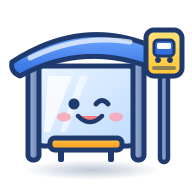
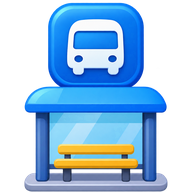
버스: 정류장 그림 핀을 대표님이 만든 그림으로 (본부 요청)
Claude-Session: https://claude.ai/code/session_01PufqCwe3ZhVuQ7GkmK5KTb

diff --git a/requests/bus-1126-정류장-쉼터-그림-핀.md b/requests/bus-1126-정류장-쉼터-그림-핀.md
@@ -2,7 +2,7 @@
 
 ## 지도 정류장 표시를 「버스」 그림 → 「정류장 쉼터」 그림으로
 - 대표님: 지도에 버스 그림이 있으니 버스인지 정류장인지 헷갈림. 동그란 버스 마크 말고 요즘 정류장처럼 재밌게 그려 달라.
-- 그림 준비해 둠: `requests/img/pin_busstop.png` (192px, 투명 배경 · 웃는 유리 쉼터 + 파란 지붕 + 노란 의자 + 노란 정류장 표지판), 원본 `pin_busstop.svg`.
+- 그림: **대표님이 직접 만든 그림** `requests/img/pin_busstop.png` (192px, 투명 배경 · 파란 버스 표지판 + 지붕 쉼터 + 노란 의자, 아래 가운데가 정류장 자리).
   → `assets/icons/pin_busstop.png` 로 옮겨 주세요.
 - `lib/core/map.dart` `_IconPin.build` 맨 앞에 「그림 핀」 갈래 하나만 넣어 주세요 (다른 기능도 그림 핀을 쓸 수 있게 `pin_` 이름 규칙):
 
